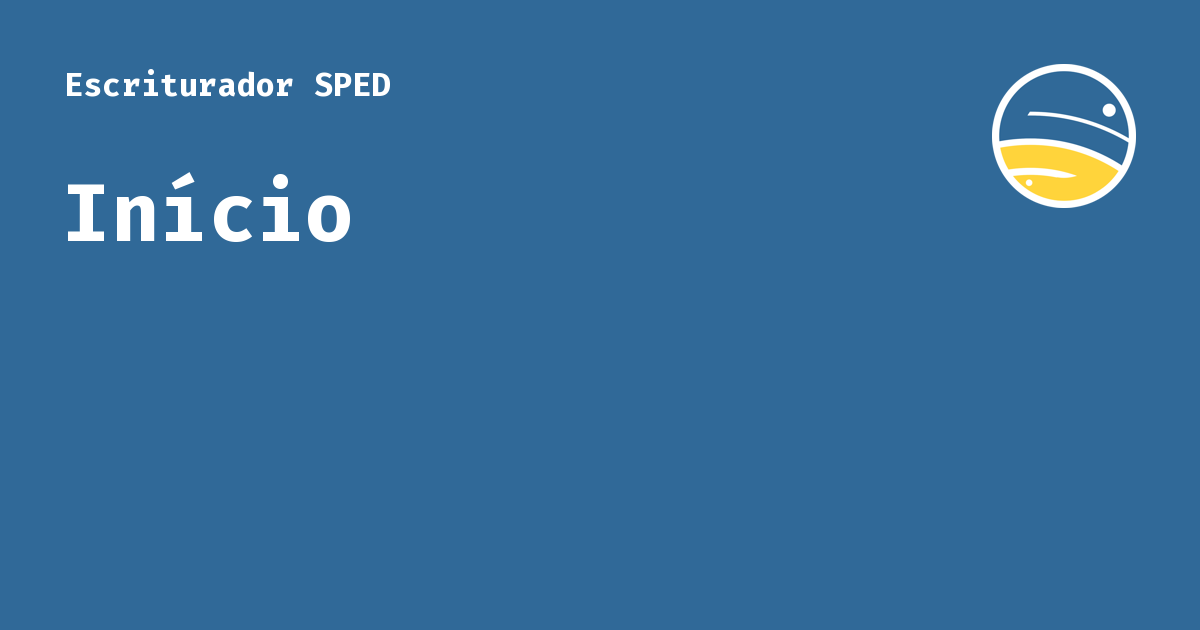
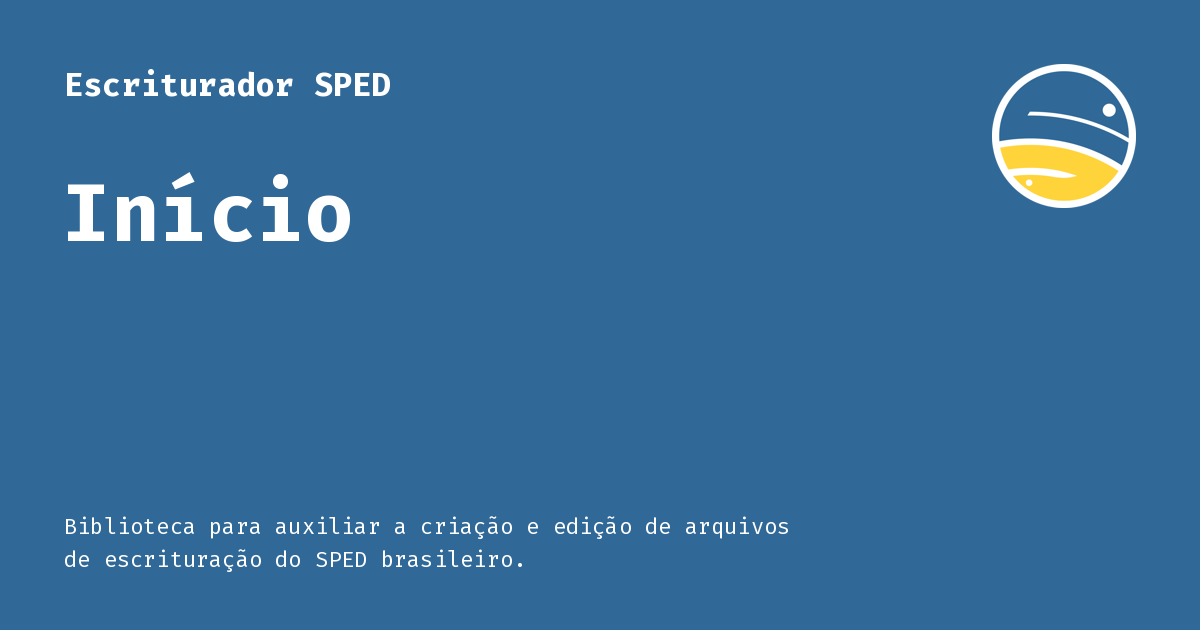
Deployed efcf864 with MkDocs version: 1.6.1

Changed region(s): [[0.0617, 0.8746, 0.4317, 0.9048], [0.0617, 0.8143, 0.4317, 0.8444], [0.4625, 0.8143, 0.6475, 0.8444]]

diff --git a/index.html b/index.html
@@ -8,6 +8,8 @@
       <meta charset="utf-8">
       <meta name="viewport" content="width=device-width,initial-scale=1">
       
+        <meta name="description" content="Biblioteca para auxiliar a criação e edição de arquivos de escrituração do SPED brasileiro.">
+      
       
         <meta name="author" content="Davi Augusto Moreira da Silva">
       
@@ -66,9 +68,77 @@
 
     
     
+
+
+<script type="application/ld+json">
+{
+    "@context": "https://schema.org",
+    "@graph": [
+        {
+            "@type": "WebSite",
+            "@id": "https://escriturador-sped.daviamsilva.dev/#website",
+            "url": "https://escriturador-sped.daviamsilva.dev/",
+            "name": "Escriturador SPED",
+            "description": "Biblioteca para auxiliar a criação e edição de arquivos de escrituração do SPED brasileiro.",
+            "inLanguage": "pt-BR",
+            "publisher": {
+                "@id": "https://daviamsilva.dev/#person"
+            }
+        },
+        {
+            "@type": [
+                "SoftwareApplication",
+                "SoftwareSourceCode"
+            ],
+            "@id": "https://escriturador-sped.daviamsilva.dev/#software",
+            "name": "Escriturador SPED",
+            "url": "https://escriturador-sped.daviamsilva.dev/",
+            "description": "Biblioteca para auxiliar a criação e edição de arquivos de escrituração do SPED brasileiro.",
+            "applicationCategory": "DeveloperApplication",
+            "operatingSystem": "Any (Python)",
+            "programmingLanguage": "Python",
+            "codeRepository": "https://github.com/DaviAMSilva/escriturador-sped",
+            "inLanguage": "pt-BR",
+            "image": "https://escriturador-sped.daviamsilva.dev/assets/images/social/index.png",
+            "author": {
+                "@id": "https://daviamsilva.dev/#person"
+            },
+            "isPartOf": {
+                "@id": "https://escriturador-sped.daviamsilva.dev/#website"
+            },
+            "offers": {
+                "@type": "Offer",
+                "price": "0",
+                "priceCurrency": "USD"
+            },
+            "isAccessibleForFree": true,
+            "license": "https://github.com/DaviAMSilva/escriturador-sped/blob/main/LICENSE",
+            "sameAs": [
+                "https://github.com/DaviAMSilva/escriturador-sped"
+            ]
+        },
+        {
+            "@type": "Person",
+            "@id": "https://daviamsilva.dev/#person",
+            "name": "Davi Augusto Moreira da Silva",
+            "alternateName": "DaviAMSilva",
+            "url": "https://daviamsilva.dev",
+            "sameAs": [
+                "https://github.com/DaviAMSilva",
+                "https://x.com/DaviAMSilva",
+                "https://www.reddit.com/user/DaviAMSilva",
+                "https://www.linkedin.com/in/daviamsilva"
+            ]
+        }
+    ]
+}
+</script>
+
+
   
 <meta property="og:type" content="website" />
 <meta property="og:title" content="Escriturador SPED" />
+<meta property="og:description" content="Biblioteca para auxiliar a criação e edição de arquivos de escrituração do SPED brasileiro." />
 <meta property="og:image" content="https://escriturador-sped.daviamsilva.dev/assets/images/social/index.png" />
 <meta property="og:image:type" content="image/png" />
 <meta property="og:image:width" content="1200" />
@@ -76,6 +146,7 @@
 <meta property="og:url" content="https://escriturador-sped.daviamsilva.dev/" />
 <meta property="twitter:card" content="summary_large_image" />
 <meta property="twitter:title" content="Escriturador SPED" />
+<meta property="twitter:description" content="Biblioteca para auxiliar a criação e edição de arquivos de escrituração do SPED brasileiro." />
 <meta property="twitter:image" content="https://escriturador-sped.daviamsilva.dev/assets/images/social/index.png" />
 </head>
   
@@ -1065,7 +1136,7 @@ img#logo {
     <span class="md-icon" title="Última atualização">
       <svg xmlns="http://www.w3.org/2000/svg" viewBox="0 0 24 24"><path d="M21 13.1c-.1 0-.3.1-.4.2l-1 1 2.1 2.1 1-1c.2-.2.2-.6 0-.8l-1.3-1.3c-.1-.1-.2-.2-.4-.2m-1.9 1.8-6.1 6V23h2.1l6.1-6.1zM12.5 7v5.2l4 2.4-1 1L11 13V7zM11 21.9c-5.1-.5-9-4.8-9-9.9C2 6.5 6.5 2 12 2c5.3 0 9.6 4.1 10 9.3-.3-.1-.6-.2-1-.2s-.7.1-1 .2C19.6 7.2 16.2 4 12 4c-4.4 0-8 3.6-8 8 0 4.1 3.1 7.5 7.1 7.9l-.1.2z"/></svg>
     </span>
-    <span class="git-revision-date-localized-plugin git-revision-date-localized-plugin-timeago" title="8 de outubro de 2026 20:42:59 -03"><span class="timeago" datetime="2026-10-08T20:42:59-03:00" locale="pt"></span></span><span class="git-revision-date-localized-plugin git-revision-date-localized-plugin-iso_date" title="8 de outubro de 2026 20:42:59 -03">2026-10-08</span>
+    <span class="git-revision-date-localized-plugin git-revision-date-localized-plugin-timeago" title="8 de outubro de 2026 22:54:08 -03"><span class="timeago" datetime="2026-10-08T22:54:08-03:00" locale="pt"></span></span><span class="git-revision-date-localized-plugin git-revision-date-localized-plugin-iso_date" title="8 de outubro de 2026 22:54:08 -03">2026-10-08</span>
   </span>
 
     

diff --git a/overrides/main.html b/overrides/main.html
@@ -3,3 +3,72 @@
 <meta name="darkreader-lock">
 {{ super() }}
 {% endblock %}
+
+{% block extrahead %}
+{{ super() }}
+{% if page.is_homepage %}
+<script type="application/ld+json">
+{
+    "@context": "https://schema.org",
+    "@graph": [
+        {
+            "@type": "WebSite",
+            "@id": "https://escriturador-sped.daviamsilva.dev/#website",
+            "url": "https://escriturador-sped.daviamsilva.dev/",
+            "name": "Escriturador SPED",
+            "description": "Biblioteca para auxiliar a criação e edição de arquivos de escrituração do SPED brasileiro.",
+            "inLanguage": "pt-BR",
+            "publisher": {
+                "@id": "https://daviamsilva.dev/#person"
+            }
+        },
+        {
+            "@type": [
+                "SoftwareApplication",
+                "SoftwareSourceCode"
+            ],
+            "@id": "https://escriturador-sped.daviamsilva.dev/#software",
+            "name": "Escriturador SPED",
+            "url": "https://escriturador-sped.daviamsilva.dev/",
+            "description": "Biblioteca para auxiliar a criação e edição de arquivos de escrituração do SPED brasileiro.",
+            "applicationCategory": "DeveloperApplication",
+            "operatingSystem": "Any (Python)",
+            "programmingLanguage": "Python",
+            "codeRepository": "https://github.com/DaviAMSilva/escriturador-sped",
+            "inLanguage": "pt-BR",
+            "image": "https://escriturador-sped.daviamsilva.dev/assets/images/social/index.png",
+            "author": {
+                "@id": "https://daviamsilva.dev/#person"
+            },
+            "isPartOf": {
+                "@id": "https://escriturador-sped.daviamsilva.dev/#website"
+            },
+            "offers": {
+                "@type": "Offer",
+                "price": "0",
+                "priceCurrency": "USD"
+            },
+            "isAccessibleForFree": true,
+            "license": "https://github.com/DaviAMSilva/escriturador-sped/blob/main/LICENSE",
+            "sameAs": [
+                "https://github.com/DaviAMSilva/escriturador-sped"
+            ]
+        },
+        {
+            "@type": "Person",
+            "@id": "https://daviamsilva.dev/#person",
+            "name": "Davi Augusto Moreira da Silva",
+            "alternateName": "DaviAMSilva",
+            "url": "https://daviamsilva.dev",
+            "sameAs": [
+                "https://github.com/DaviAMSilva",
+                "https://x.com/DaviAMSilva",
+                "https://www.reddit.com/user/DaviAMSilva",
+                "https://www.linkedin.com/in/daviamsilva"
+            ]
+        }
+    ]
+}
+</script>
+{% endif %}
+{% endblock %}

diff --git a/modulos-suportados/index.html b/modulos-suportados/index.html
@@ -68,6 +68,9 @@
 
     
     
+
+
+
   
 <meta property="og:type" content="website" />
 <meta property="og:title" content="Módulos Suportados - Escriturador SPED" />

diff --git a/conceitos-basicos/index.html b/conceitos-basicos/index.html
@@ -68,6 +68,9 @@
 
     
     
+
+
+
   
 <meta property="og:type" content="website" />
 <meta property="og:title" content="Conceitos Básicos - Escriturador SPED" />

diff --git a/exemplos-praticos/index.html b/exemplos-praticos/index.html
@@ -68,6 +68,9 @@
 
     
     
+
+
+
   
 <meta property="og:type" content="website" />
 <meta property="og:title" content="Exemplos Práticos - Escriturador SPED" />

diff --git a/realizando-buscas/index.html b/realizando-buscas/index.html
@@ -68,6 +68,9 @@
 
     
     
+
+
+
   
 <meta property="og:type" content="website" />
 <meta property="og:title" content="Realizando Buscas - Escriturador SPED" />

diff --git a/classes/escrituracao/index.html b/classes/escrituracao/index.html
@@ -68,6 +68,9 @@
 
     
     
+
+
+
   
 <meta property="og:type" content="website" />
 <meta property="og:title" content="Escrituração - Escriturador SPED" />

diff --git a/estruturas/lista-registro/index.html b/estruturas/lista-registro/index.html
@@ -68,6 +68,9 @@
 
     
     
+
+
+
   
 <meta property="og:type" content="website" />
 <meta property="og:title" content="ListaRegistro - Escriturador SPED" />

diff --git a/instalacao/index.html b/instalacao/index.html
@@ -68,6 +68,9 @@
 
     
     
+
+
+
   
 <meta property="og:type" content="website" />
 <meta property="og:title" content="Instalação - Escriturador SPED" />

diff --git a/classes/componente/index.html b/classes/componente/index.html
@@ -68,6 +68,9 @@
 
     
     
+
+
+
   
 <meta property="og:type" content="website" />
 <meta property="og:title" content="Componente - Escriturador SPED" />

diff --git a/estruturas/tupla-campo/index.html b/estruturas/tupla-campo/index.html
@@ -68,6 +68,9 @@
 
     
     
+
+
+
   
 <meta property="og:type" content="website" />
 <meta property="og:title" content="TuplaCampo - Escriturador SPED" />

diff --git a/outros/constantes/index.html b/outros/constantes/index.html
@@ -68,6 +68,9 @@
 
     
     
+
+
+
   
 <meta property="og:type" content="website" />
 <meta property="og:title" content="Constantes - Escriturador SPED" />
